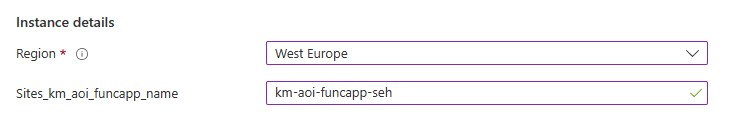
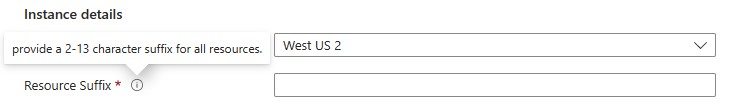
Updating the ARM template and README.md

diff --git a/README.md b/README.md
@@ -31,11 +31,30 @@ This repo also includes a guide to build a Power Virutal Agent bot that could be
 
 The ARM template is not fully automated (yet), so a few manual steps will have to be taken to set up your project:
 
-1. At the deployment stage of the ARM templat, please deploy all resources in only one of the following 3 regions: West Europe, East US, South Central US
+1. At the deployment stage of the ARM template, please choose a suffix that will be added to all your resource names. This will make sure to avoid name conflicts for the resources.
     <br/>
     <br />
     <p align="center">
-    <img src="images/suffix.jpg" width="600" /> 
+    <img src="images/suffix.jpg" width="700" /> 
+    </p>
+    <br/>
+1. When it comes to the OpenAI resource, there are 3 choices:
+    * The first option is to choose "no" in the "Deploy New OpenAI Resource", and then provide an existing OpenAI resource. In this case, please provide the endpoint and key values in the "Existing Open AI Resource" fields
+
+    * The second option is to choose "yes" which will then create a new OpenAI resource in this Resource Group. This is also based on the choice in the "New OpenAI Resource Location Field", which is one of the following 3 regions where OpenAI can be deployed: West Europe, East US, South Central US
+    <br/>
+    <br />
+    <p align="center">
+    <img src="images/openaichoice.jpg" width="700" /> 
+    </p>
+    <br/>
+
+    * The third option is to choose "no", but also you do not provide an existing OpenAI resource. This might happen if you want to deploy the solution now and you will supply the OpenAI resource credentials later. In that case, these values can be updated later in the "Configuration" section of the Function App. 
+
+    <br/>
+    <br />
+    <p align="center">
+    <img src="images/openaifuncapp.jpg" width="700" /> 
     </p>
     <br/>
 1. Once deployment is done, go to the "Outputs" section at the left-hand side:
@@ -49,7 +68,7 @@ The ARM template is not fully automated (yet), so a few manual steps will have t
     <br/>
     <br />
     <p align="center">
-    <img src="images/copyoutputs.jpg" width="700" /> copyoutputs
+    <img src="images/copyoutputs.jpg" width="700" /> 
     </p>
     <br/>
 1. The next step would be to deploy the Azure Functions to the FuncApp. During functions deployment in VS Code. The deployment will ask for a storage account, please supply the one in the RG
@@ -70,7 +89,7 @@ The ARM template is not fully automated (yet), so a few manual steps will have t
     <img src="images/copyfuncurl.jpg" width="450" />
     </p>
     <br/>
-1. Go to the FuncApp, and then click on one of the deployed functions, and then the “Monitor” tab. Then please create the application insights. This step is only needed for troubleshooting
+1. **(Optional)** For troubleshooting and log monitoring, please go to the Function App, and then click on one of the deployed functions, and then the “Monitor” tab. Then please create the Application Insights resource. Application Insights will allow you to monitor and check function logs.
     <br />
     <br />
 1. Deploy 4 models in OpenAI:
